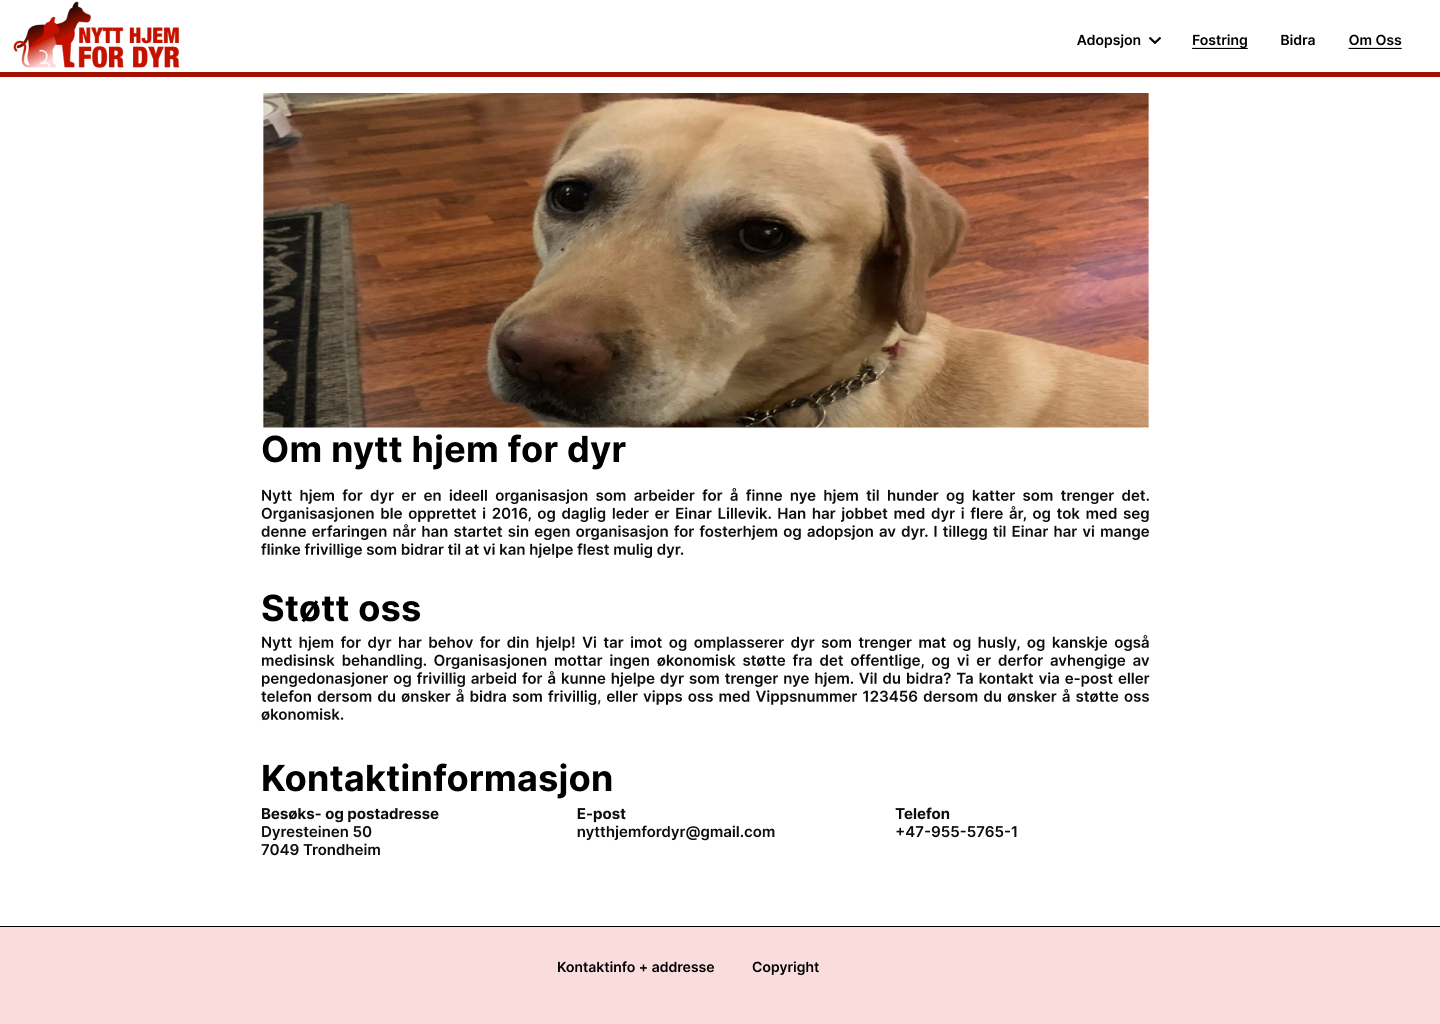
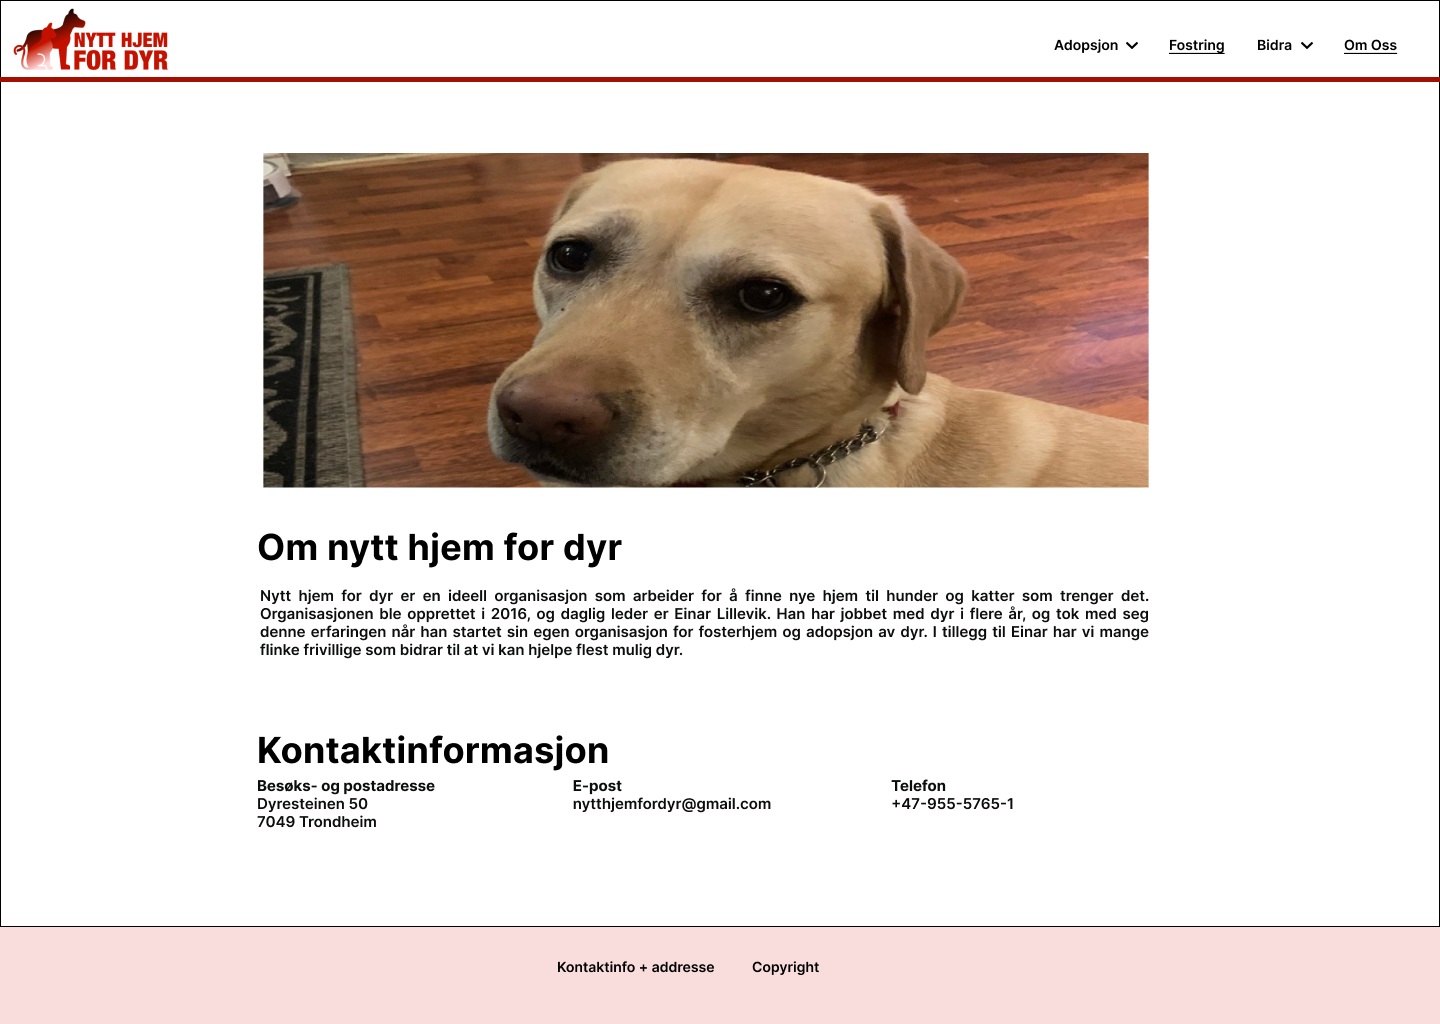
Fjerne ene farge schema og endret om_oss bilde til det oppdatert et

Changed region(s): [[0.0, 0.0, 1.0, 0.8438], [0.625, 0.75, 0.7188, 0.8125]]

diff --git a/p2/P2_prosject_design_70.html b/p2/P2_prosject_design_70.html
@@ -73,7 +73,6 @@
                         <li>Header: bakgrunnsfarge: #FFFFFF, font-farge: #000000, Border-bottom: #A31000</li>
                         <li>Footer: bakgrunnsfarge: #F9DCDC, font-farge: #000000, border-top: #000000</li>
                         <li>Tekst: #000000</li>
-                        <li>Error/Avvis: #ff0033</li>
                     </ul>
                 </li>
             </ul>
